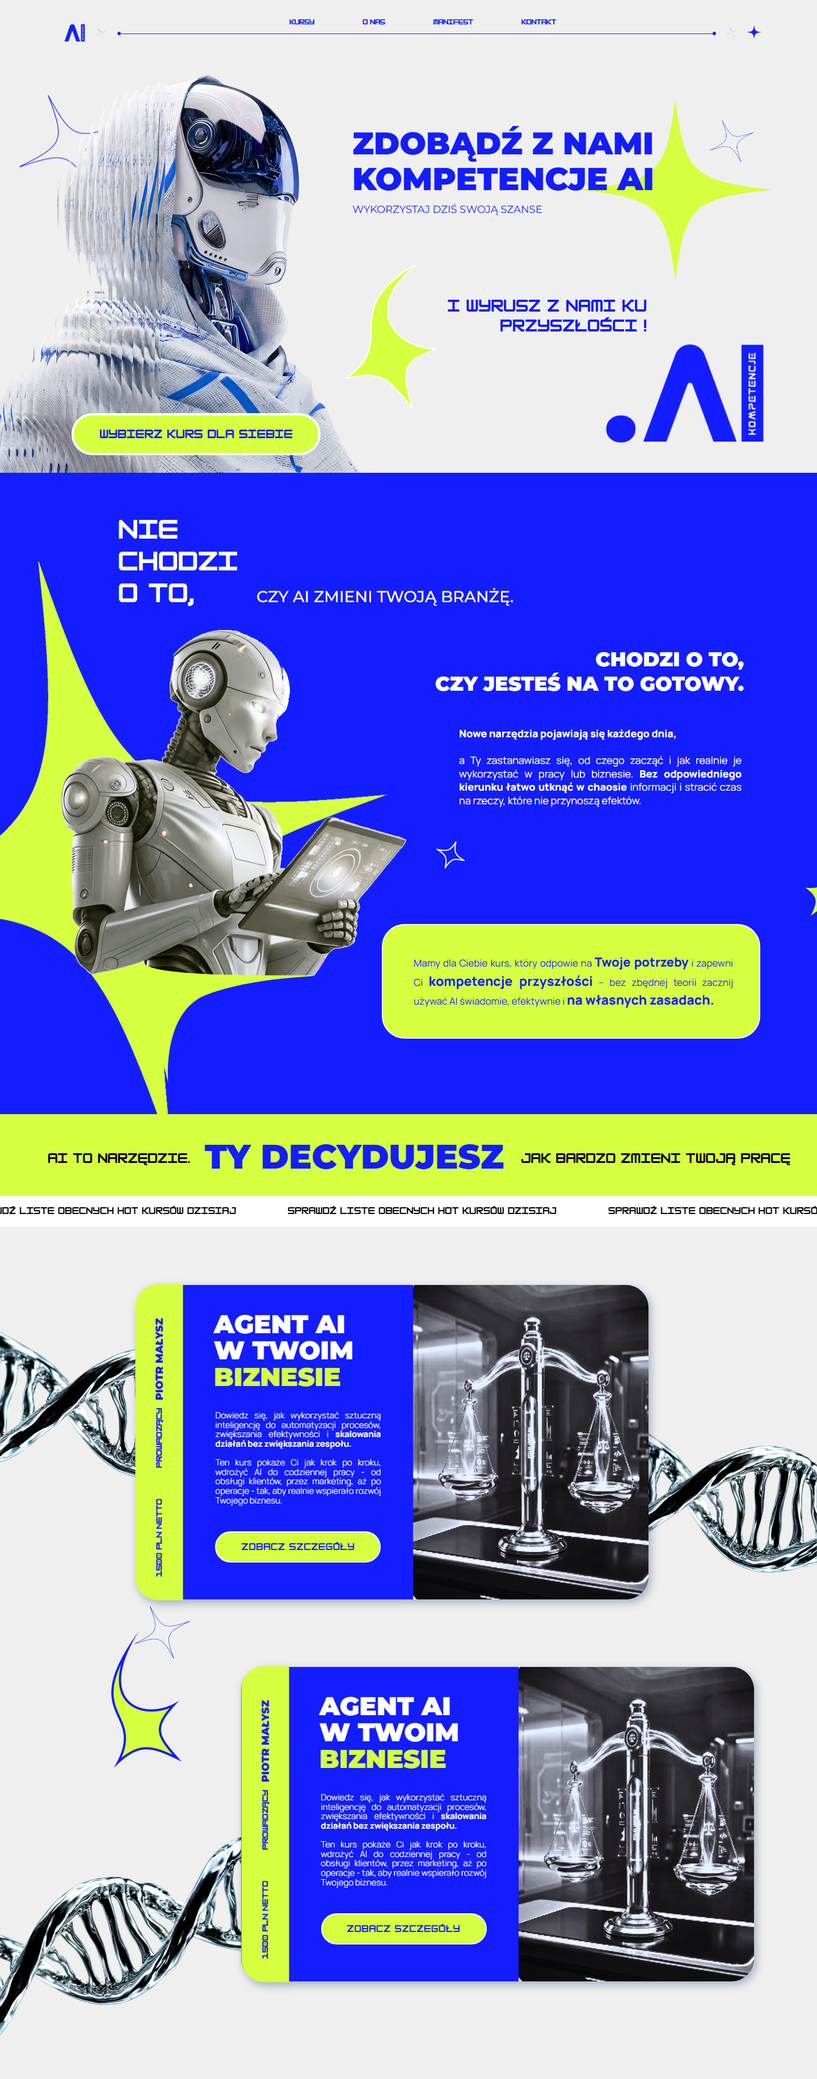
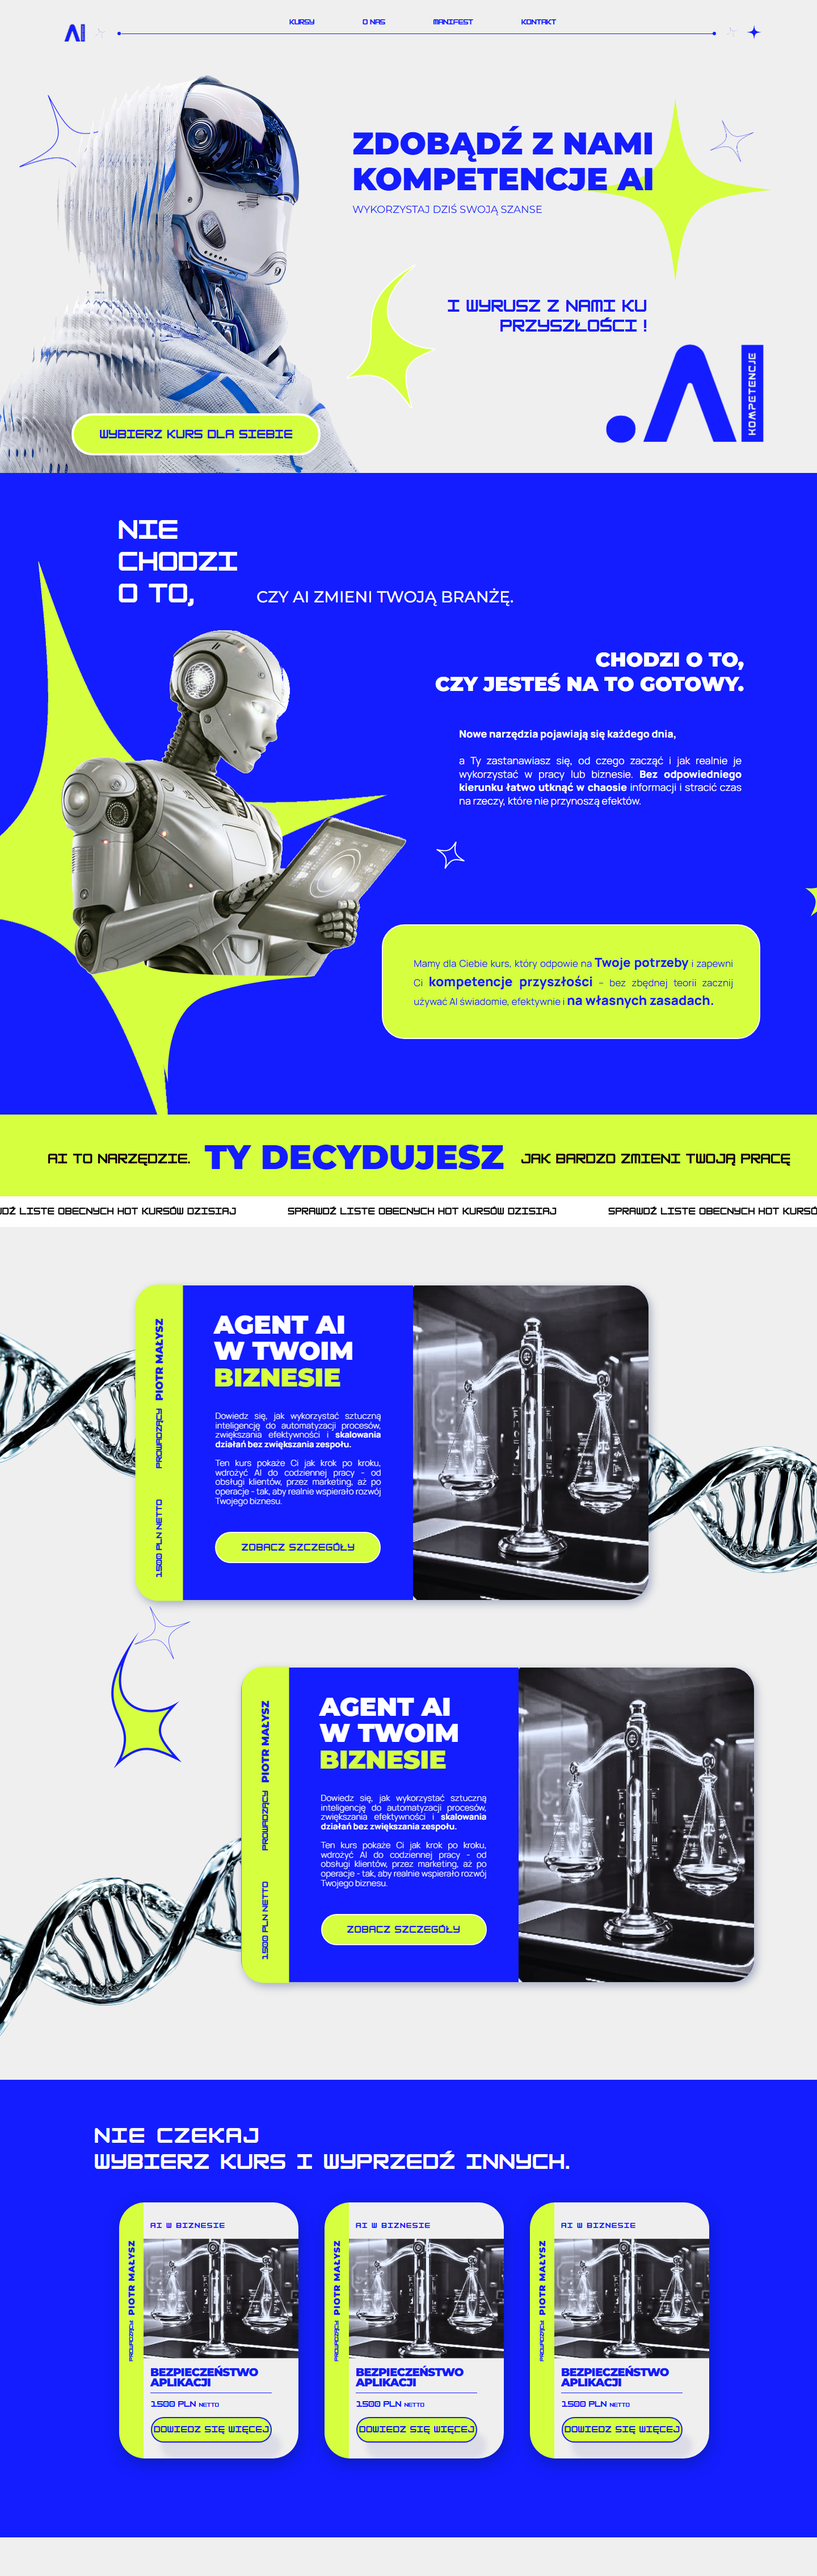
feat: sekcja kursy - 3 karty desktop pixel-perfect (1.68% diff)
Karta zmierzona scanlinami z renderu (design = 100% krzywe): lime podklad,
bialy panel pelnej wysokosci, foto 273x211 na calosc panelu (crop 1:1
z renderu), sidebar -90, button z twardym jasnym cieniem klipowanym do
panelu. Rozstaw kart 362px. Naglowek HK 32/46 z trackingiem per linia.
Mobile nie ma tej sekcji w designie (zweryfikowano) - hidden md:block.
shot.js: opcjonalny tryb fullPage.

diff --git a/komp-ai/src/components/home/KursySection.tsx b/komp-ai/src/components/home/KursySection.tsx
@@ -1,0 +1,169 @@
+/*
+ * Sekcja 4: kursy — 3 karty na niebieskim tle (TYLKO desktop; mobile odłożone).
+ * Canvas 1440×874 (strona y3663–4537), niebieskie tło h806.
+ * Karty w designie są w 100% zamienione na krzywe (zero tekstów!) — treść
+ * odtworzona prawdziwymi fontami z pomiarów renderu (SEO: prawdziwe nagłówki).
+ *
+ * Geometria karty zmierzona scanlinami z renderu (design-refs/tools/kurs-runs.js,
+ * kurs-ink.js): karta 315.7×451 (lime x210..525, y3879..4330 na stronie), biały
+ * panel x43..316 pełnej wysokości (zaokrąglony tylko z prawej), foto na całą
+ * szerokość panelu 273×211, button 210×45.5 z twardym jasnym cieniem (+14,+28)
+ * przyciętym do panelu.
+ */
+
+export interface KursCard {
+  tag: string;
+  title: [string, string];
+  price: string;
+  ctaLabel: string;
+  ctaHref: string;
+}
+
+const c = (px: number) => `${(px / 14.4).toFixed(4)}cqw`;
+
+/* geometria karty — px designu, origin = lewy-górny róg lime (strona 210,3879) */
+const K = {
+  w: 315.7, h: 451,
+  lime: { w: 120, r: 45 }, // widoczny pas 0..43, reszta pod panelem
+  panel: { left: 43, w: 273, r: 45 }, // zaokrąglenie tylko z prawej
+  sidebar: { w: 43, textLen: 441, endPad: 62 }, // ink: MAŁYSZ kończy 64px od góry karty (y3948)
+  tag: { left: 55, top: 35.5, fontPx: 10.4, trackPx: 1.75 }, // ink y36..44, x55..181
+  photo: { left: 43, top: 64, w: 273, h: 211 }, // pełna szerokość panelu
+  title: { left: 54.7, top: 289.8, fontPx: 19.5, lineHeightPx: 18, trackPx: -0.5 }, // cap-top L1 = 291 (4170)
+  divider: { left: 55, top: 335, w: 214 },
+  price: { left: 56, top: 348.5, fontPx: 12, nettoPx: 8 }, // ink y350..359; "netto" mniejsze (brak lowercase w HK Modular)
+  button: { left: 56.2, top: 378, w: 212.6, h: 45.5, r: 23, borderPx: 2.5, fontPx: 13, trackPx: 0.5 },
+  btnShadow: { dx: 17, dy: 28, blur: 4, color: "#dcdce6" }, // miękki cień, klip do panelu
+};
+
+function KursCardBox({ card }: { card: KursCard }) {
+  return (
+    <div className="relative" style={{ width: c(K.w), height: c(K.h) }}>
+      {/* warstwa kształtu (lime + biały panel) z miękkim cieniem karty */}
+      <div
+        className="absolute inset-0"
+        style={{ filter: "drop-shadow(0.1389cqw 0.6944cqw 0.9722cqw rgba(0,24,84,0.4))" }}
+      >
+        <div
+          className="absolute bg-brand-lime"
+          style={{ left: 0, top: 0, width: c(K.lime.w), height: c(K.h), borderRadius: c(K.lime.r) }}
+        />
+        <div
+          className="absolute overflow-hidden bg-page"
+          style={{
+            left: c(K.panel.left), top: 0, width: c(K.panel.w), height: c(K.h),
+            borderRadius: `0 ${c(K.panel.r)} ${c(K.panel.r)} 0`,
+          }}
+        >
+          {/* twardy cień buttona — pod buttonem, przycięty do panelu */}
+          <div
+            className="absolute"
+            style={{
+              left: c(K.button.left - K.panel.left + K.btnShadow.dx),
+              top: c(K.button.top + K.btnShadow.dy),
+              width: c(K.button.w), height: c(K.button.h),
+              borderRadius: c(K.button.r), background: K.btnShadow.color,
+              filter: `blur(${c(K.btnShadow.blur)})`,
+            }}
+          />
+        </div>
+      </div>
+      {/* sidebar: pionowe podpisy na lime */}
+      <div
+        className="absolute flex items-center justify-center"
+        style={{ left: 0, top: 0, width: c(K.sidebar.w), height: c(K.h) }}
+      >
+        <div className="-rotate-90">
+          <div
+            className="flex items-center whitespace-nowrap text-brand-blue"
+            style={{ gap: c(8), width: c(K.sidebar.textLen), justifyContent: "flex-end", paddingRight: c(K.sidebar.endPad) }}
+          >
+            <span className="font-modular" style={{ fontSize: c(8), lineHeight: 1.2 }}>PROWADZĄCY:</span>
+            <span className="font-display font-black" style={{ fontSize: c(15), lineHeight: 1.2, letterSpacing: c(1) }}>PIOTR MAŁYSZ</span>
+          </div>
+        </div>
+      </div>
+      {/* tag */}
+      <p
+        className="absolute whitespace-nowrap font-modular text-brand-blue"
+        style={{ left: c(K.tag.left), top: c(K.tag.top), fontSize: c(K.tag.fontPx), letterSpacing: c(K.tag.trackPx), lineHeight: 1 }}
+      >
+        {card.tag}
+      </p>
+      {/* zdjęcie — pełna szerokość panelu */}
+      <img
+        src="/assets/kurs-photo.png"
+        alt=""
+        className="absolute"
+        style={{ left: c(K.photo.left), top: c(K.photo.top), width: c(K.photo.w), height: c(K.photo.h) }}
+      />
+      {/* tytuł */}
+      <h3
+        className="absolute font-display font-black text-brand-blue"
+        style={{ left: c(K.title.left), top: c(K.title.top), fontSize: c(K.title.fontPx), lineHeight: c(K.title.lineHeightPx), letterSpacing: c(K.title.trackPx) }}
+      >
+        {card.title[0]}
+        <br />
+        {card.title[1]}
+      </h3>
+      {/* linia */}
+      <div className="absolute bg-brand-blue" style={{ left: c(K.divider.left), top: c(K.divider.top), width: c(K.divider.w), height: "max(1px, 0.07cqw)" }} />
+      {/* cena — "netto" mniejszym stopniem (HK Modular nie ma prawdziwego lowercase) */}
+      <p className="absolute whitespace-nowrap font-modular text-brand-blue" style={{ left: c(K.price.left), top: c(K.price.top), fontSize: c(K.price.fontPx), lineHeight: 1 }}>
+        {card.price.replace(/\s*netto\s*$/i, "")}{" "}
+        <span style={{ fontSize: c(K.price.nettoPx) }}>netto</span>
+      </p>
+      {/* CTA */}
+      <a
+        href={card.ctaHref}
+        className="absolute flex items-center justify-center border-solid border-brand-blue bg-brand-lime font-modular text-brand-blue"
+        style={{
+          left: c(K.button.left), top: c(K.button.top), width: c(K.button.w), height: c(K.button.h),
+          borderRadius: c(K.button.r), borderWidth: c(K.button.borderPx),
+          fontSize: c(K.button.fontPx), letterSpacing: c(K.button.trackPx),
+        }}
+      >
+        {card.ctaLabel}
+      </a>
+    </div>
+  );
+}
+
+/* pozycje w sekcji (origin = góra niebieskiego tła, strona y3663) */
+const G = {
+  // ink: cap-top L1 y3748 (lok. 85), x169; pitch linii 46; tracking różny per linia
+  header: { left: 166, line1Top: 75, fontPx: 32, lineHeightPx: 46, track1Px: 2.2, track2Px: 1.0, wordPx: 3 },
+  cards: [
+    { left: 210, top: 216 },
+    { left: 572, top: 216 },
+    { left: 934, top: 216 },
+  ],
+};
+
+export default function KursySection({ cards }: { cards: KursCard[] }) {
+  return (
+    <section className="relative hidden w-full md:block">
+      <div className="@container mx-auto w-full max-w-(--workspace)">
+        <div className="relative aspect-[1440/874] overflow-hidden bg-page">
+          {/* niebieskie tło sekcji (1440×806) */}
+          <div className="absolute inset-x-0 top-0 bg-brand-blue" style={{ height: c(806) }} data-node-id="245:8087" />
+          {/* nagłówek — w designie krzywe, tu prawdziwy HK Modular */}
+          <h2
+            className="absolute font-modular font-normal text-white"
+            style={{ left: c(G.header.left), top: c(G.header.line1Top), fontSize: c(G.header.fontPx), lineHeight: c(G.header.lineHeightPx), wordSpacing: c(G.header.wordPx) }}
+            data-node-id="245:8090"
+          >
+            <span style={{ letterSpacing: c(G.header.track1Px) }}>NIE CZEKAJ</span>
+            <br />
+            <span style={{ letterSpacing: c(G.header.track2Px) }}>WYBIERZ KURS I WYPRZEDŹ INNYCH.</span>
+          </h2>
+          {cards.map((card, i) => (
+            <div key={i} className="absolute" style={{ left: c(G.cards[i].left), top: c(G.cards[i].top) }}>
+              <KursCardBox card={card} />
+            </div>
+          ))}
+        </div>
+      </div>
+    </section>
+  );
+}

diff --git a/komp-ai/scripts/shot.js b/komp-ai/scripts/shot.js
@@ -1,15 +1,16 @@
 // Screenshot with web fonts guaranteed loaded.
-// usage: node shot.js <url> <out.png> [width] [height] [dpr]
+// usage: node shot.js <url> <out.png> [width] [height] [dpr] [full]
+//   full = "full" → fullPage screenshot (viewport height nadal steruje 100svh!)
 const { chromium } = require('playwright');
 (async () => {
-  const [url, out, w = '1440', h = '840', dpr = '1'] = process.argv.slice(2);
+  const [url, out, w = '1440', h = '840', dpr = '1', full = ''] = process.argv.slice(2);
   const b = await chromium.launch();
   const p = await b.newPage({ viewport: { width: +w, height: +h }, deviceScaleFactor: +dpr });
   await p.emulateMedia({ reducedMotion: 'reduce' });
   await p.goto(url, { waitUntil: 'networkidle' });
   await p.evaluate(() => document.fonts.ready);
   await p.waitForTimeout(150);
-  await p.screenshot({ path: out });
+  await p.screenshot({ path: out, fullPage: full === 'full' });
   await b.close();
   console.log('shot:', out, w+'x'+h+'@'+dpr+'x');
 })();

diff --git a/komp-ai/src/app/page.tsx b/komp-ai/src/app/page.tsx
@@ -1,6 +1,7 @@
 import HeroSection from "../components/home/HeroSection";
 import ManifestSection from "../components/home/ManifestSection";
 import DnaSection from "../components/home/DnaSection";
+import KursySection from "../components/home/KursySection";
 import { getHomePage, getSiteSettings } from "../content";
 
 export default async function Home() {
@@ -14,6 +15,7 @@ export default async function Home() {
       <HeroSection hero={page.hero} nav={settings.nav} />
       <ManifestSection m={page.manifest} />
       <DnaSection cards={page.dnaCards} m={page.manifest} />
+      <KursySection cards={page.kursTiles} />
     </main>
   );
 }

diff --git a/komp-ai/src/content/home.ts b/komp-ai/src/content/home.ts
@@ -69,4 +69,13 @@ export const homePage: HomePage = {
     ctaLabel: "ZOBACZ SZCZEGÓŁY", // w designie "SZCZEGOŁY" (literówka)
     ctaHref: "/kursy/agent-ai-w-twoim-biznesie",
   })),
+  // 3 identyczne kafle w designie (placeholder) — treść do podmiany
+  kursTiles: [1, 2, 3].map(() => ({
+    _type: "kursTile" as const,
+    tag: "AI W BIZNESIE",
+    title: ["BEZPIECZEŃSTWO", "APLIKACJI"] as [string, string],
+    price: "1500 PLN netto",
+    ctaLabel: "DOWIEDZ SIĘ WIĘCEJ",
+    ctaHref: "/kursy/bezpieczenstwo-aplikacji",
+  })),
 };

diff --git a/komp-ai/src/content/types.ts b/komp-ai/src/content/types.ts
@@ -53,11 +53,21 @@ export interface DnaCard {
   ctaHref: string;
 }
 
+export interface KursTile {
+  _type: "kursTile";
+  tag: string;
+  title: [string, string];
+  price: string;
+  ctaLabel: string;
+  ctaHref: string;
+}
+
 export interface HomePage {
   _type: "homePage";
   hero: HomeHero;
   manifest: HomeManifest;
   dnaCards: DnaCard[];
+  kursTiles: KursTile[];
 }
 
 export interface SiteSettings {

diff --git a/CHANGELOG.md b/CHANGELOG.md
@@ -1,5 +1,27 @@
 # CHANGELOG
 
+## 2026-07-16 — sekcja kursy (3 karty, desktop)
+
+- Sekcja 4 kursy desktop (1440×874, strona y3663–4537): **diff 1.68%** (poniżej progu hero
+  1.73%); resztka = AA nagłówka biały-na-niebieskim + miękkość cieni.
+- Karta 315.7×451 zmierzona scanlinami (kurs-runs.js/kurs-ink.js — karty w designie to 100%
+  krzywe): lime podkład + biały panel pełnej wysokości (radius tylko z prawej), foto na całą
+  szerokość panelu 273×211, tag HK 10.4, tytuł Montserrat Black 19.5/18 track -0.5,
+  divider, cena 12 + „netto" 8 (HK Modular bez lowercase — flag), button 212.6×45.5
+  z twardym jasnym cieniem (+17,+28, blur, klip do panelu), sidebar -90°
+  („PROWADZĄCY:" 8 + nazwisko 15 track 1, koniec 62px od góry karty).
+- Rozstaw kart = 362px (nie ⅓ interwału z bboxów node'ów!): x 210/572/934 — 1px pitch
+  robił 6% diffu na foto.
+- Foto = crop 1:1 z renderu designu (eksport node'a z Figmy miał inny kadr — rawImage
+  bez crop-transformu filla); 1x — przy retinie do podmiany na 2x z Figmy.
+- Nagłówek: pitch linii 46 (nie 40), tracking per linia (2.2/1.0) + word-spacing 3.
+- Mobile: sekcji kursów NIE MA w designie mobile (zweryfikowano na renderze) — `hidden md:block`.
+- Treść 3 kafli identyczna (placeholder designera „BEZPIECZEŃSTWO APLIKACJI"/PIOTR MAŁYSZ
+  ×3) — FLAG dla Patryka; content layer `kursTiles` gotowy na realne dane.
+- shot.js: nowy opcjonalny tryb fullPage (`node shot.js url out w h dpr full`) —
+  viewport 833 steruje 100svh hero, fullPage łapie całą stronę 1:1 z designem.
+- hscroll czysty na 375/768/1440/1920/2560.
+
 ## 2026-07-15 (2) — sekcja DNA (2 karty kursu)
 
 - Karta kursu jako komponent (desktop 904×554 / mobile 362×715): lime sidebar -90°,

diff --git a/TODO.md b/TODO.md
@@ -42,7 +42,7 @@
 | 11 | Stopka | 9003–9811 | `423:3275` (402×808) |
 
 UWAGA: mobile frame ma 11040 wys., stopka kończy się ~9811 — sprawdzić co jest w 9811–11040 (crop z renderu).
-UWAGA: kursy (3 karty) nie widać w mobile metadata między human-machine a prowadzącymi — zweryfikować na renderze (może w TLO 375:1793 / Rectangle 4024).
+ZWERYFIKOWANO (2026-07-16): mobile NIE MA sekcji kursów (3 kart) — render 4600–5800 pokazuje DNA → HUMAN/MACHINE → POZNAJMY SIĘ. Sekcja kursy = `hidden md:block`.
 
 ## Otwarte zadania
 
@@ -53,7 +53,8 @@ UWAGA: kursy (3 karty) nie widać w mobile metadata między human-machine a prow
 - [x] Nav + hero desktop (diff 1.73%) i mobile (~4.5%, szum foto) — CZEKA NA REVIEW Patryka
 - [x] Sekcja 2 manifest + pasek TY DECYDUJESZ, desktop (4.54%) + mobile (8.4%, foto) — marquee animowane CSS
 - [x] Sekcja 3: bloki DNA — desktop 7.7% / mobile 13.3% (sub-px resampling foto); karta = komponent, treść x2 z content layer
-- [ ] Sekcja 4: kursy (3 karty, desktop y3663–4469) — NASTĘPNA
+- [x] Sekcja 4: kursy (3 karty, desktop y3663–4469) — diff 1.68% (AA nagłówka); mobile NIE MA tej sekcji w designie (zweryfikowano na renderze: DNA → human/machine → prowadzący)
+- [ ] Sekcja 5: Human and machine (desktop y4537–5347, frame `245:9699`) — NASTĘPNA
 - [ ] Kolejne sekcje wg tabel powyżej, jedna po drugiej
 - [ ] Content layer (mock Sanity) od pierwszej sekcji
 - [ ] SEO: metadata API, OG, semantyka, keyword „kompetencje.ai"
